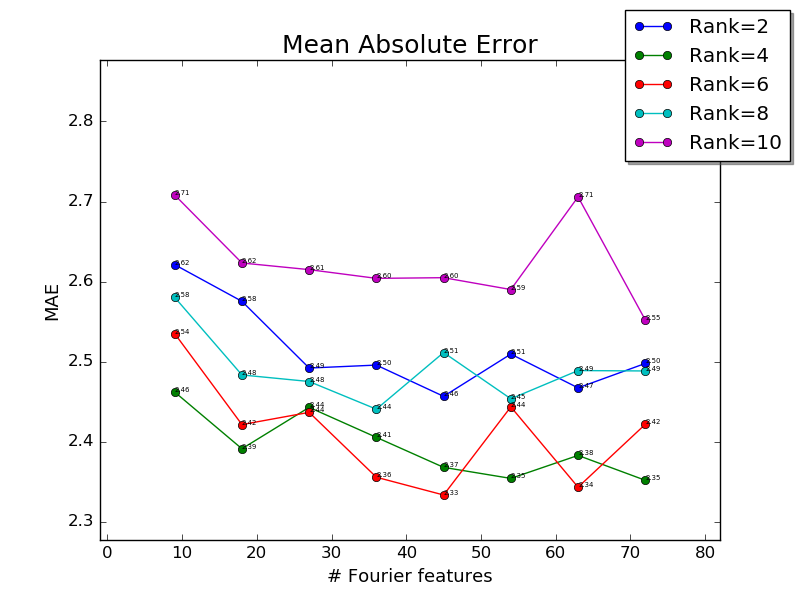
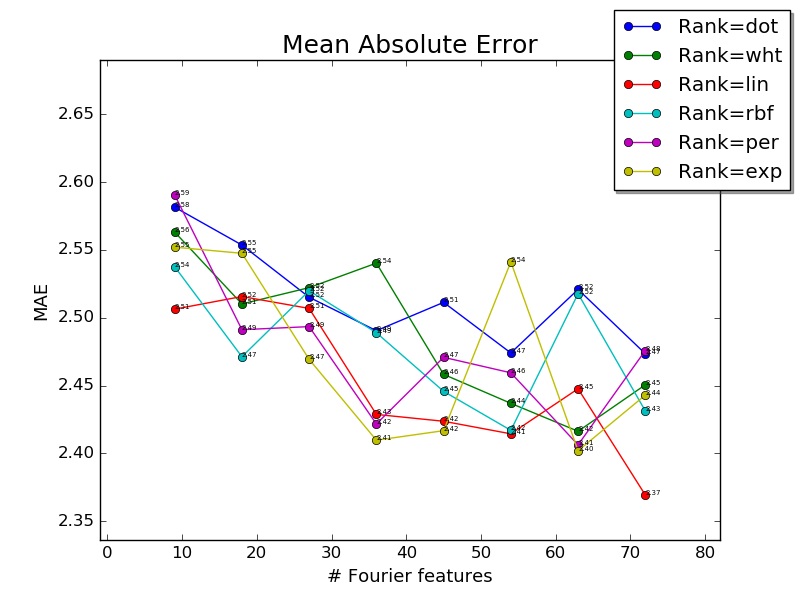
latest commit

diff --git a/SCFGP/SCFGP.py b/SCFGP/SCFGP.py
@@ -34,7 +34,7 @@ class SCFGP(object):
     SCORE, COST, TrMSE, TrNMSE, TsMAE, TsMSE, TsRMSE, TsNMSE, TsMNLP = [0]*9
     
     def __init__(self, rank=-1, feature_size=-1,
-                 freq_kern="rbf", iduc_kern="rbf", verbose=True):
+                 freq_kern="rbf", iduc_kern="per", verbose=True):
         self.R = rank
         self.M = feature_size
         self.freq_kern = FrequencyKernel(freq_kern, self.R)
@@ -62,7 +62,7 @@ class SCFGP(object):
     def build_theano_model(self):
         epsilon = 1e-8
         self.message("Compiling SCFGP theano model...")
-        X, y, Xs, Ri, alpha = T.dmatrices('X', 'Y', 'Xs', 'Ri', 'alpha')
+        X, y, Xs, alpha, beta = T.dmatrices('X', 'Y', 'Xs', 'alpha', 'beta')
         N, S = X.shape[0], Xs.shape[0]
         hyper = T.dvector('hyper')
         t_ind = 0
@@ -91,31 +91,37 @@ class SCFGP(object):
         PhiTPhi = T.dot(Phi.T, Phi)
         A = PhiTPhi+(sig2_n+epsilon)*T.identity_like(PhiTPhi)
         R = sT.cholesky(A)
-        t_Ri = sT.matrix_inverse(R)
-        zeta = T.dot(t_Ri, Phi.T)
-        beta = T.dot(zeta, y)
-        t_alpha = T.dot(t_Ri.T, beta)
+        Ri = sT.matrix_inverse(R)
+        G = T.dot(Phi, Ri.T)
+        Ki = 1./sig2_n*(T.eye(N)-T.dot(G, G.T))
+        PhiTKi = T.dot(Phi.T, Ki)
+        t_alpha = T.dot(PhiTKi, y)
+        t_beta = T.identity_like(PhiTPhi)-T.dot(PhiTKi, Phi)
         mu_f = T.dot(Phi, t_alpha)
+        GTy = T.dot(G.T, y)
         mu_w = (T.sum(Omega, axis=1)+T.sum(L, axis=1))/(self.M+self.R)
-        sig_w = ((T.var(Omega, axis=1)*self.M+\
+        sig_w = T.sqrt((T.var(Omega, axis=1)*self.M+\
             T.var(L, axis=1)*self.R)/(self.M+self.R))
-        cost = (T.log(2*sig2_n*np.pi)+(1./sig2_n*((y**2).sum()-\
-            (beta**2).sum())-(zeta**2).sum()+2*T.log(T.diagonal(R)).sum()+\
-                (sig_w+mu_w**2-T.log(sig_w)-1).sum())/N)/T.std(y)
+        cost = 2*T.log(T.diagonal(R)).sum()/N+\
+            1./sig2_n/N*((y**2).sum()-(GTy**2).sum())+4*(1-self.M/N)*a
+        # cost = (T.log(2*sig2_n*np.pi)+(1./sig2_n*((y**2).sum()-\
+        #     (beta**2).sum())+2*T.log(T.diagonal(R)).sum()+\
+        #         (sig_w+mu_w**2-T.log(sig_w)-1).sum())/N)**2/T.var(y)
         dhyper = T.grad(cost, hyper)
         train_input = [X, y, hyper]
         train_input_name = ['X', 'y', 'hyper']
-        train_output = [t_Ri, t_alpha, Omega, mu_f, cost, dhyper]
-        train_output_name = ['Ri', 'alpha', 'Omega', 'mu_f', 'cost', 'dhyper']
+        train_output = [t_alpha, t_beta, Omega, mu_f, cost, dhyper]
+        train_output_name = ['alpha', 'beta', 'Omega', 'mu_f', 'cost', 'dhyper']
         self.train_func = theano.function(
             train_input, train_output, on_unused_input='ignore')
         FFs = T.dot(Xs, Omega)+(Theta-T.sum(Z*Omega, 0)[None, :])
         FFs_L = T.dot(Xs, L)+(Theta_L-T.sum(Z_L*L, 0)[None, :])
         Phis = sig_f*T.sqrt(2./self.M)*T.cos(T.concatenate((FFs, FFs_L), 1))
         mu_pred = T.dot(Phis, alpha)
-        std_pred = sig_n*(1+(Ri.dot(Phis.T)**2).sum(0).T)**0.5
-        pred_input = [Xs, hyper, Ri, alpha]
-        pred_input_name = ['Xs', 'hyper', 'Ri', 'alpha']
+        std_pred = T.sqrt(T.diagonal(T.dot(Phis, T.dot(beta, Phis.T))))
+        # std_pred = sig_n*(1+(T.dot(Phis, Ri.T)**2).sum(1))**0.5
+        pred_input = [Xs, hyper, alpha, beta]
+        pred_input_name = ['Xs', 'hyper', 'alpha', 'beta']
         pred_output = [mu_pred, std_pred]
         pred_output_name = ['mu_pred', 'std_pred']
         self.pred_func = theano.function(
@@ -131,14 +137,14 @@ class SCFGP(object):
             kps = np.random.rand(self.FKP+self.IKP)
             theta = 2*np.pi*np.random.rand(self.M+self.R)
             hyper = np.concatenate((a_and_b, l, f, kps, theta))
-            Ri, alpha, Omega, mu_f, cost, _ =\
+            alpha, beta, Omega, mu_f, cost, _ =\
                 self.train_func(self.X, self.y, hyper)
             self.message("Random parameters yield cost:", cost)
             if(cost < min_cost):
                 min_cost = cost
                 best_hyper = hyper.copy()
         self.hyper = best_hyper.copy()
-        self.Ri, self.alpha, self.Omega, self.mu_f, self.cost, _ =\
+        self.alpha, self.beta, self.Omega, self.mu_f, self.cost, _ =\
             self.train_func(self.X, self.y, self.hyper)
 
     def fit(self, X, y, Xs=None, ys=None, funcs=None, opt=None, callback=None,
@@ -155,10 +161,12 @@ class SCFGP(object):
         if(Xs is not None and ys is not None):
             self.Xs = self.X_nml.forward_transform(Xs)
             self.ys = self.y_nml.forward_transform(ys)
+        else:
+            plot_training = False
         train_start_time = time.time()
         self.init_model()
         if(opt is None):
-            opt = Optimizer("smorms3", [0.1/self.R], self.R*100, 18, 1e-4)
+            opt = Optimizer("adam", [0.1/self.R, 0.9, 0.9], self.R*100, 8, 1e-4)
         plt.close()
         if(plot_matrices):
             plot_mat_fig = plt.figure(facecolor='white', dpi=120)
@@ -167,8 +175,7 @@ class SCFGP(object):
         if(plot_training):
             iter_list = []
             cost_list = []
-            train_mse_list = []
-            test_mse_list = []
+            score_list = []
             plot_train_fig, plot_train_axarr = plt.subplots(
                 2, figsize=(8, 6), facecolor='white', dpi=120)
             plot_train_fig.suptitle(self.NAME, fontsize=15)
@@ -186,21 +193,16 @@ class SCFGP(object):
                 if(len(iter_list) > 100):
                     iter_list.pop(0)
                     cost_list.pop(0)
-                    train_mse_list.pop(0)
-                    test_mse_list.pop(0)
+                    score_list.pop(0)
                 plot_train_axarr[0].cla()
                 plot_train_axarr[0].plot(iter_list, cost_list,
-                    color='r', linewidth=2.0, label='Training cost')
-                plot_train_axarr[1].cla()
-                plot_train_axarr[1].plot(iter_list, train_mse_list,
-                    color='b', linewidth=2.0, label='Training MSE')
-                if(Xs is None or ys is None):
-                    return
-                plot_train_axarr[1].plot(iter_list, test_mse_list,
-                    color='g', linewidth=2.0, label='Testing MSE')
+                    color='r', linewidth=2.0, label='Cost')
                 handles, labels = plot_train_axarr[0].get_legend_handles_labels()
                 plot_train_axarr[0].legend(handles, labels, loc='upper center',
                     bbox_to_anchor=(0.5, 1.05), ncol=1, fancybox=True)
+                plot_train_axarr[1].cla()
+                plot_train_axarr[1].plot(iter_list, score_list,
+                    color='b', linewidth=2.0, label='Score')
                 handles, labels = plot_train_axarr[1].get_legend_handles_labels()
                 plot_train_axarr[1].legend(handles, labels, loc='upper center',
                     bbox_to_anchor=(0.5, 1.05), ncol=2, fancybox=True)
@@ -210,7 +212,7 @@ class SCFGP(object):
                 errors = [0.25, 0.39, 0.52, 0.67, 0.84, 1.04, 1.28, 1.64, 2.2]
                 Xplot = np.linspace(-0.1, 1.1, pts)[:, None]
                 mu, std = self.pred_func(
-                    Xplot, self.hyper, self.Ri, self.alpha)
+                    Xplot, self.hyper, self.alpha, self.beta)
                 mu = mu.ravel()
                 std = std.ravel()
                 for er in errors:
@@ -227,7 +229,7 @@ class SCFGP(object):
         def train(iter, hyper):
             self.iter = iter
             self.hyper = hyper.copy()
-            self.Ri, self.alpha, self.Omega, mu_f, self.COST, dhyper =\
+            self.alpha, self.beta, self.Omega, mu_f, self.COST, dhyper =\
                 self.train_func(self.X, self.y, hyper)
             self.mu_f = self.y_nml.backward_transform(mu_f)
             self.TrMSE = np.mean((self.mu_f-y)**2.)
@@ -247,8 +249,7 @@ class SCFGP(object):
             if(plot_training):
                 iter_list.append(iter)
                 cost_list.append(self.COST)
-                train_mse_list.append(self.TrMSE)
-                test_mse_list.append(self.TsMSE)
+                score_list.append(self.SCORE)
                 plt.pause(0.01)
             if(plot_1d_function):
                 plt.pause(0.05)
@@ -266,7 +267,7 @@ class SCFGP(object):
     def predict(self, Xs, ys=None):
         self.Xs = self.X_nml.forward_transform(Xs)
         mu_pred, std_pred = self.pred_func(
-            self.Xs, self.hyper, self.Ri, self.alpha)
+            self.Xs, self.hyper, self.alpha, self.beta)
         self.mu_pred = self.y_nml.backward_transform(mu_pred)
         self.std_pred = std_pred[:, None]*self.y_nml.data["std"]
         if(ys is not None):
@@ -277,7 +278,7 @@ class SCFGP(object):
             self.TsNMSE = self.TsMSE/np.var(ys)
             self.TsMNLP = 0.5*np.mean(((ys-self.mu_pred)/\
                 self.std_pred)**2+np.log(2*np.pi*self.std_pred**2))
-            self.SCORE = np.exp(-self.TsMNLP)/self.TsNMSE
+            self.SCORE = self.TsNMSE
             self.message(self.NAME, "  TsMAE = %.4f"%(self.TsMAE))
             self.message(self.NAME, "  TsMSE = %.4f"%(self.TsMSE))
             self.message(self.NAME, " TsRMSE = %.4f"%(self.TsRMSE))
@@ -291,7 +292,7 @@ class SCFGP(object):
         prior_setting = (self.seed, self.R, self.M)
         init_objects = (self.freq_kern, self.iduc_kern, self.X_nml, self.y_nml)
         train_data = (self.X, self.y)
-        matrices = (self.hyper, self.Ri, self.alpha)
+        matrices = (self.hyper, self.alpha, self.beta)
         metrics = (self.SCORE, self.COST, self.TrMSE, self.TrNMSE, self.TrTime, 
             self.TsMAE, self.TsMSE, self.TsRMSE, self.TsNMSE, self.TsMNLP)
         save_pack = [prior_setting, init_objects, train_data, matrices, metrics]
@@ -311,7 +312,7 @@ class SCFGP(object):
         self.X, self.y = load_pack[2]
         self.N, self.D = self.X.shape
         self.build_theano_model()
-        self.hyper, self.Ri, self.alpha = load_pack[3]
+        self.hyper, self.alpha, self.beta = load_pack[3]
         [self.SCORE, self.COST, self.TrMSE, self.TrNMSE,
             self.TrTime, self.TsMAE, self.TsMSE, self.TsRMSE,
                 self.TsNMSE, self.TsMNLP] = load_pack[4]

diff --git a/experiments/abalone/test_regression.py b/experiments/abalone/test_regression.py
@@ -31,20 +31,28 @@ def load_abalone_data(proportion=1044./4177):
         cross_validation.train_test_split(X, y, test_size=proportion)
     return X_train, y_train, X_test, y_test
 
-repeats = 20
-kerns = ["dot", "rbf", "per", "exp"]
-rank_choices = [3]
-feature_size_choices = [70]
+repeats = 3
+kerns = ["dot", "lin", "rbf", "per"]
+X_train, y_train, X_test, y_test = load_boston_data()
+rank_choices = [int(X_train.shape[1]/2+1)]
+feature_size_choices = [50]
 scores = [[[] for _ in kerns] for _ in kerns]
+nmses = [[[] for _ in kerns] for _ in kerns]
+mnlps = [[[] for _ in kerns] for _ in kerns]
 for i, kern1 in enumerate(kerns):
     for j, kern2 in enumerate(kerns):
         for rank in rank_choices:
             for feature_size in feature_size_choices:
                 for _ in range(repeats):
-                    X_train, y_train, X_test, y_test = load_abalone_data()
                     model = SCFGP(rank, feature_size, kern1, kern2, False)
                     model.fit(X_train, y_train, X_test, y_test, plot_training=True)
+                    nmses[i][j].append(model.TsNMSE)
+                    mnlps[i][j].append(model.TsMNLP)
                     scores[i][j].append(model.SCORE)
                     print("\n>>>", model.NAME, kern1, kern2)
+                    print("    NMSE = %.4f | Avg = %.4f | Std = %.4f"%(
+                        model.TsNMSE, np.mean(nmses[i][j]), np.std(nmses[i][j])))
+                    print("    MNLP = %.4f | Avg = %.4f | Std = %.4f"%(
+                        model.TsMNLP, np.mean(mnlps[i][j]), np.std(mnlps[i][j])))
                     print("    Score = %.4f | Avg = %.4f | Std = %.4f"%(
                         model.SCORE, np.mean(scores[i][j]), np.std(scores[i][j])))

diff --git a/experiments/boston_housing/boston_housing.py b/experiments/boston_housing/boston_housing.py
@@ -30,8 +30,9 @@ trials_per_model = 50
 X_train, y_train, X_test, y_test = load_boston_data()
 feature_size_choices = [int(np.log(
     X_train.shape[0])/np.log(8)+1)*(i+1)*3 for i in range(8)]
-rank_choices = [2*(i+1) for i in range(3)]
-num_models = len(rank_choices)
+rank = int(X_train.shape[1]/2+1)
+kern_choices = ['dot', 'wht', 'lin', 'rbf', 'per', 'exp']
+num_models = len(kern_choices)
 metrics = {
     "MAE": ["Mean Absolute Error", [[] for _ in range(num_models)]],
     "MSE": ["Mean Square Error", [[] for _ in range(num_models)]],
@@ -47,12 +48,12 @@ try:
 except (FileNotFoundError, IOError):
     best_model = None
 for feature_size in feature_size_choices:
-    for i, rank in enumerate(rank_choices):
+    for i, kern in enumerate(kern_choices):
         funcs = None
         results = {en:[] for en in metrics.keys()}
         for round in range(trials_per_model):
             X_train, y_train, X_test, y_test = load_boston_data()
-            model = SCFGP(rank, feature_size, verbose=False)
+            model = SCFGP(rank, feature_size, kern, kern, verbose=False)
             if(funcs is None):
                 model.fit(X_train, y_train, X_test, y_test)
                 funcs = (model.train_func, model.pred_func)
@@ -93,7 +94,7 @@ for feature_size in feature_size_choices:
 import os
 if not os.path.exists('plots'):
     os.mkdir('plots')
-labels = ["Rank="+str(rank) for rank in rank_choices]
+labels = ["Rank="+str(rank) for rank in kern_choices]
 for en, (metric_name, metric_results) in metrics.items():
     f = plt.figure(figsize=(8, 6), facecolor='white', dpi=120)
     ax = f.add_subplot(111)

diff --git a/experiments/kin8nm/test_regression.py b/experiments/kin8nm/test_regression.py
@@ -15,20 +15,20 @@ except:
     from SCFGP import *
     print("done.")
 
-def load_boston_data(proportion=106./506):
+def load_kin8nm_data(proportion=3192./8192):
     from sklearn import datasets
     from sklearn import cross_validation
-    boston = datasets.load_boston()
-    X, y = boston.data, boston.target
+    kin8nm = datasets.fetch_mldata('regression-datasets kin8nm')
+    X, y = kin8nm.data[:, :-1], kin8nm.data[:, -1]
     y = y[:, None]
     X = X.astype(np.float64)
     X_train, X_test, y_train, y_test = \
         cross_validation.train_test_split(X, y, test_size=proportion)
     return X_train, y_train, X_test, y_test
 
-repeats = 3
+repeats = 1
 kerns = ["dot", "lin", "rbf", "per"]
-X_train, y_train, X_test, y_test = load_boston_data()
+X_train, y_train, X_test, y_test = load_kin8nm_data()
 rank_choices = [int(X_train.shape[1]/2+1)]
 feature_size_choices = [50]
 scores = [[[] for _ in kerns] for _ in kerns]
